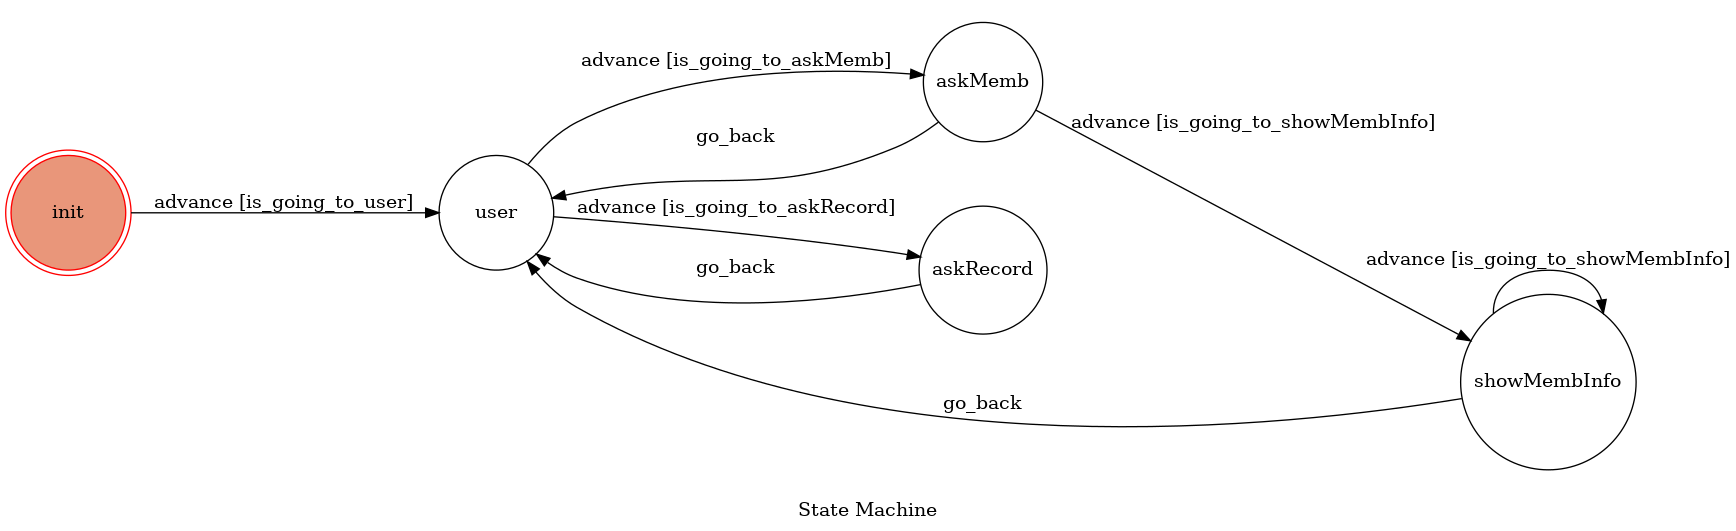
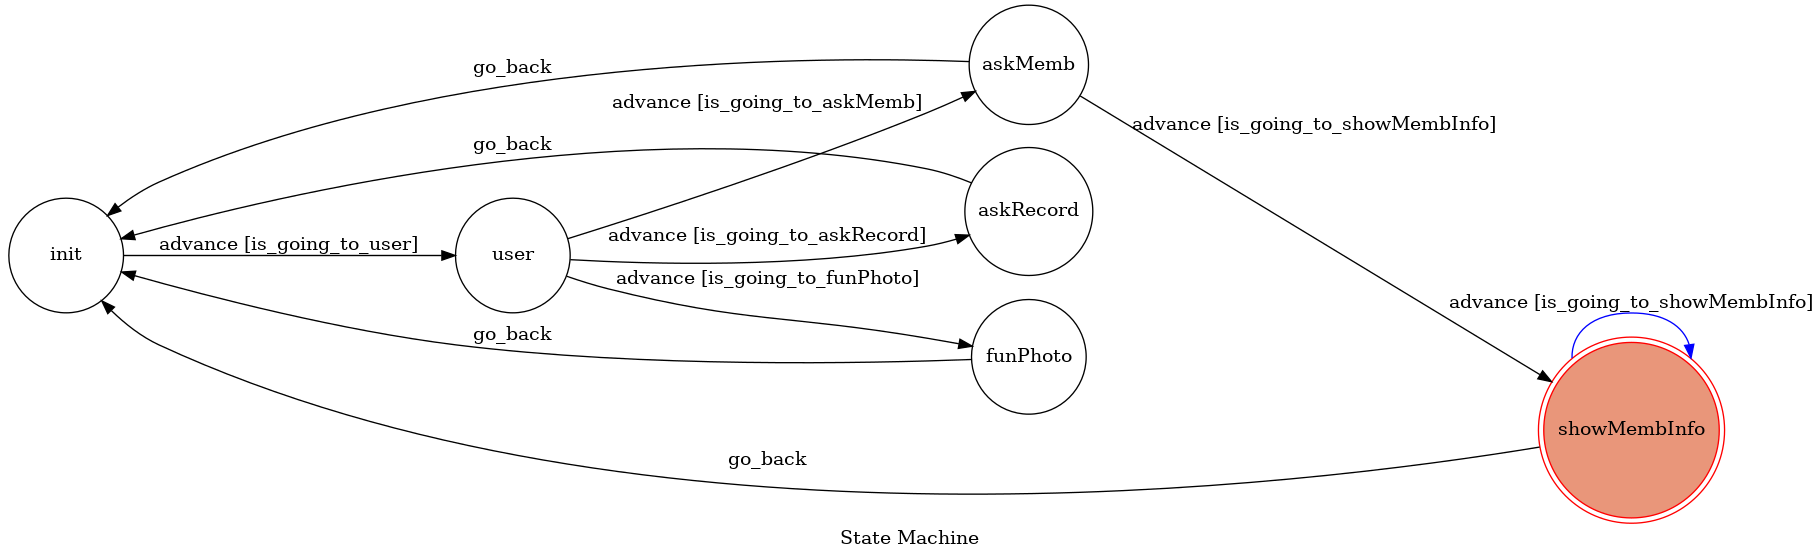
Finish

diff --git a/fsm.py b/fsm.py
@@ -65,14 +65,14 @@ class TocMachine(GraphMachine):
     def is_going_to_funPhoto(self, event):
         if event.get("message"):     
             text = event['message']['text']
-            if text.find('梗圖') > -1:
+            if text.find('梗圖') > -1 or text.find('醜照') > -1:
                 return True
         return False       
     def on_enter_user(self, event):
         print("I'm entering user state")
 
         sender_id = event['sender']['id']
-        responese = send_text_message(sender_id, "你好啊!我是系排吉祥物-巨石彥瑋哦！很高興為你服務^^！\n可以詢問我一些關於系排的事情哦，只要是我能回答你的我都很樂意幫忙哦！\n(輸入提示：成員、戰績、系排趣事、梗圖）")
+        responese = send_text_message(sender_id, "你好啊!我是系排吉祥物-巨石彥瑋哦！很高興為你服務^^！\n可以詢問我一些關於系排的事情哦，只要是我能回答你的我都很樂意幫忙哦！\n(輸入提示：成員、戰績、梗圖）")
     def on_enter_askMemb(self, event):
         print("I'm entering state1")
         sender_id = event['sender']['id']
@@ -81,9 +81,14 @@ class TocMachine(GraphMachine):
         print("I'm entering funPhoto")
         rand = random.randint(0,len(url))
         sender_id = event['sender']['id']
-        
         responese = send_text_message(sender_id, "好的 稍等我一下！")  
         responese = send_image_message(sender_id,url[rand])
+        rand = random.randint(0,len(url))
+        responese = send_image_message(sender_id,url[rand])
+        rand = random.randint(0,len(url))
+        responese = send_image_message(sender_id,url[rand])        
+        time.sleep(1)
+        responese = send_text_message(sender_id, "喜歡的話可以右鍵儲存哦A___A！")          
         self.go_back()
 
     def on_enter_showMembInfo(self, event):

diff --git a/README.md b/README.md
@@ -1,63 +1,68 @@
-# TOC Project 2019
+# TOC Project 2018
 
-Template Code for TOC Project 2019
+## FSM
+![](https://i.imgur.com/fzHOGW0.png)
 
-A Facebook messenger bot based on a finite state machine
+## 簡介
+* 這是一個系排相關的Chatbot哦!可以向他詢問關於系排的問題呦。
+* 程式並無用到資料庫，而是用python中的dictionary去實作的，目前只有data中只有系排大三成員+醜男林允文哦!
 
-More details in the [Slides](https://hackmd.io/p/SkpBR-Yam#/)
+## 各State功能簡介
+* 簡單說各state的功能，詳細運作請看**運作流程**!
+### Init State
+* 無功能，只是FSM的起點和各State的返回目的地
+* 隨便打個訊息就會跑去user state
 
-## Setup
+### User State
+* 用來選擇功能的state
+	* 功能:
+		* 球員訊息
+		* 系排戰績
+		* 系排梗圖(醜照)
+### askMemb State
+* 詢問球員訊息的State
 
-### Prerequisite
-* Python 3
-* Facebook Page and App
-* HTTPS Server
-
-#### Install Dependency
-```sh
-pip install -r requirements.txt
-```
-
-* pygraphviz (For visualizing Finite State Machine)
-    * [Setup pygraphviz on Ubuntu](http://www.jianshu.com/p/a3da7ecc5303)
-
-#### Secret Data
-
-`VERIFY_TOKEN` and `ACCESS_TOKEN` **MUST** be set to proper values.
-Otherwise, you might not be able to run your code.
-
-#### Run Locally
-You can either setup https server or using `ngrok` as a proxy.
-
-**`ngrok` would be used in the following instruction**
-
-```sh
-./ngrok http 5000
-```
-
-After that, `ngrok` would generate a https URL.
-
-#### Run the sever
-
-```sh
-python3 app.py
-```
-
-## Finite State Machine
-![fsm](./img/show-fsm.png)
-
-## Usage
-The initial state is set to `user`.
-
-Every time `user` state is triggered to `advance` to another state, it will `go_back` to `user` state after the bot replies corresponding message.
-
-* user
-	* Input: "go to state1"
-		* Reply: "I'm entering state1"
-
-	* Input: "go to state2"
-		* Reply: "I'm entering state2"
+### showMemb State
+* 顯示球員訊息的State
+### askRecord State
+* 顯示系排戰績的State
+### funPhoto State
+* 用來傳送梗圖的State
 
 
-## Reference
-[TOC-Project-2017](https://github.com/Lee-W/TOC-Project-2017) ❤ [@Lee-W](https://github.com/Lee-W)
+
+## 運作流程
+
+### First Step: 
+* 一開始的時候再init state，當你隨便傳送一次訊息時，會進入到user state，而chatbot會傳送一段提示訊息給你哦!  
+ ![](https://i.imgur.com/qPqik0X.png)
+
+### Second Step:
+* 當進入到user state，就可以開始問問題瞜!
+	---
+	* 輸入包含**成員、球員**的訊息時，會進入到 askMemb state，可以向chatbot詢問系排的成員哦!(ex: 我想問成員、球員啦)
+		 ![](https://i.imgur.com/i5xBxmX.png)
+
+		* 當你再次輸入一段訊息時，會進入到showMemb state，若是程式中有紀錄這個成員，chatbot會將該成員的資訊告訴你哦!
+		![](https://i.imgur.com/3IkOIWq.png)
+		* 若程式中沒記錄這個成員，chatbot會告知你沒有這個成員哦!
+		![](https://i.imgur.com/gehpVjM.png)
+		* 結束後，你可以繼續問你下一個想問的球員，若是傳送包含**沒有、no、不用、其他問題**的訊息時，則會跳回到init state
+		![](https://i.imgur.com/0WONn3y.png)
+
+	
+	---
+	* 輸入包含**戰績**的訊息時，會進入到 askRecord state，chatbot會跟你說系排近年來的戰績哦!(ex: 我想戰績、戰績)
+	
+	* ![](https://i.imgur.com/FqIn5wa.png)
+		* chatbot回覆完之後會回到init state
+	---
+	* 輸入包含**梗圖、醜照**的訊息時，會進入到 funPhoto state，chatbot會隨機挑三張系排的圖片傳給你哦!(ex: 我想要看梗圖、我想要醜照、醜照、梗圖)
+		![](https://i.imgur.com/4qKXwkh.png)
+
+		* chatbot回覆完之後會回到init state
+
+
+
+
+
